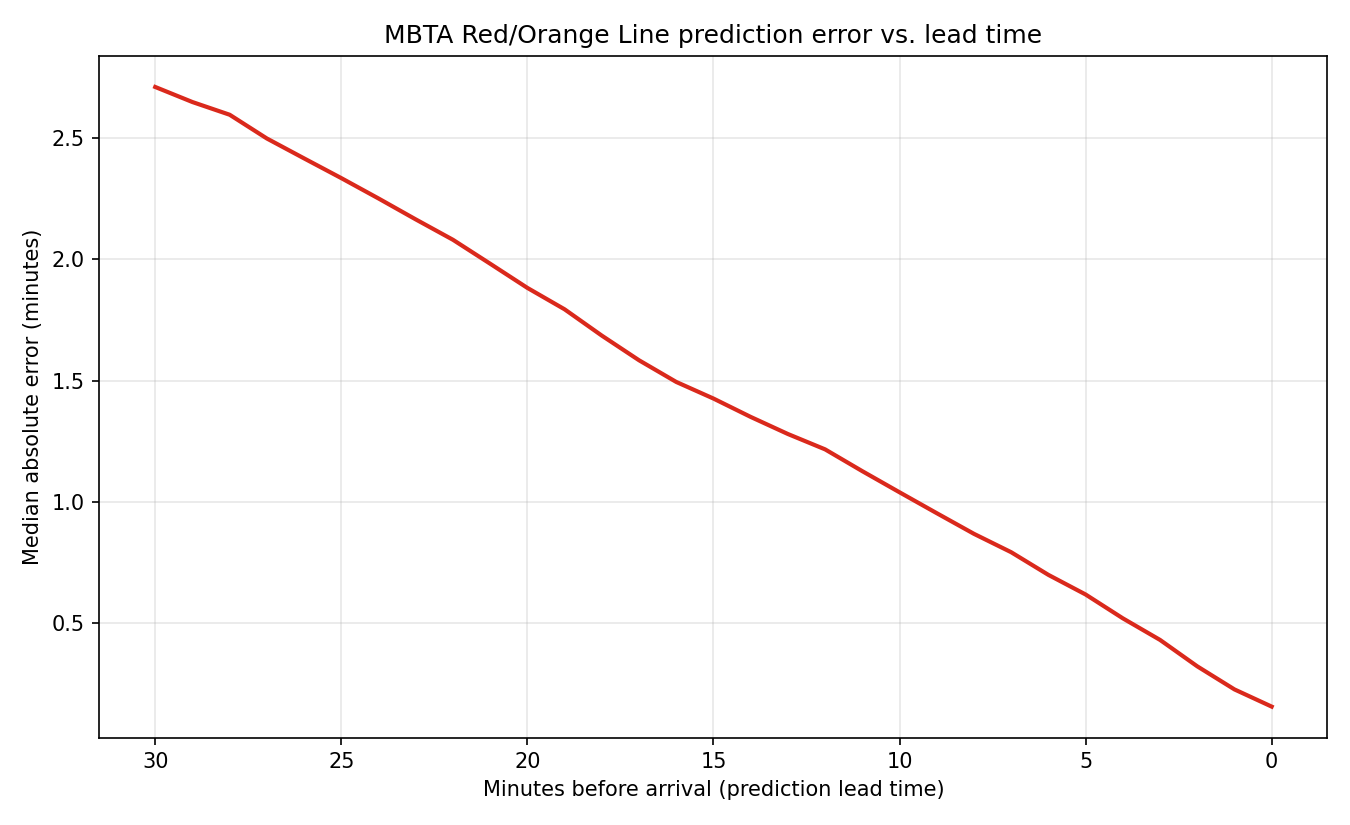
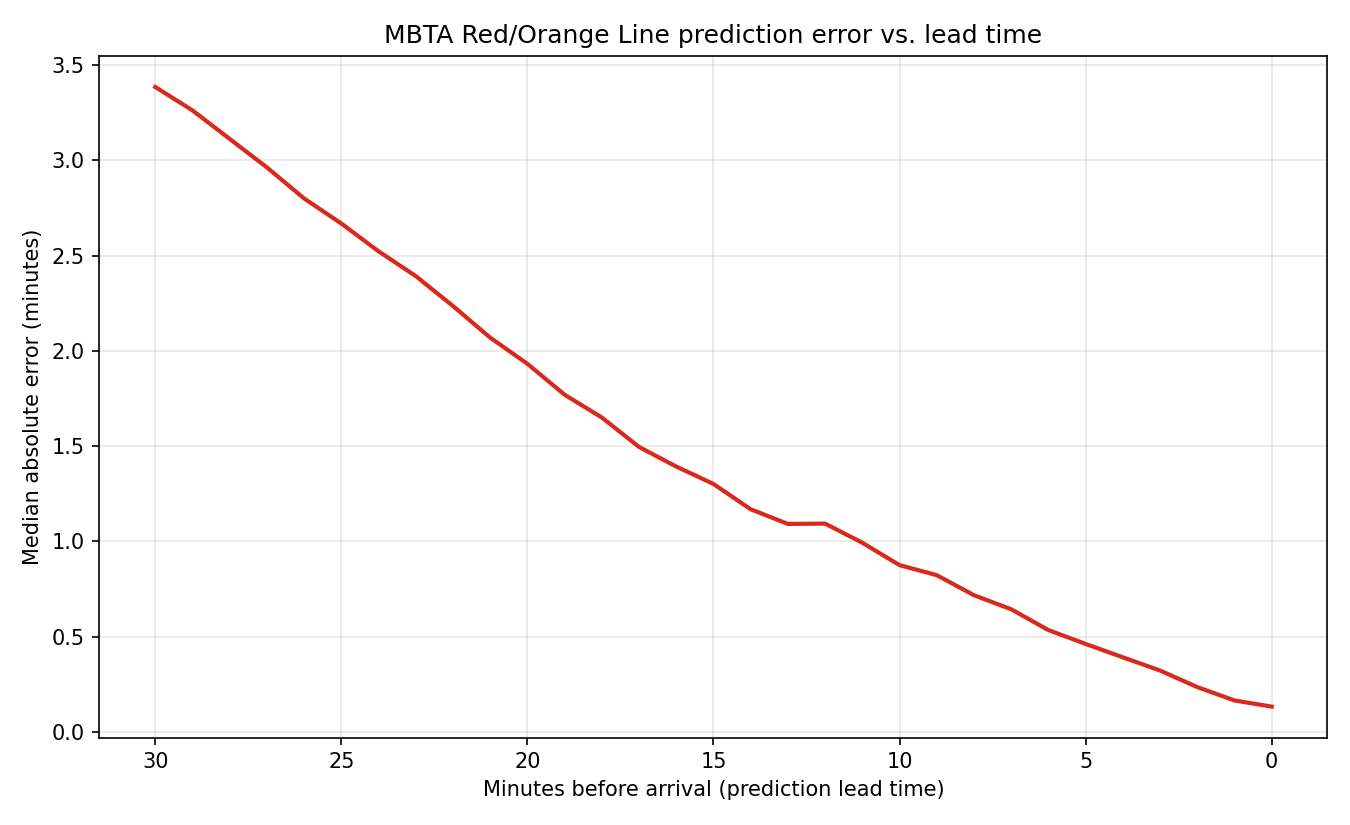
route and rush hour breakdowns, and fix route filtering

diff --git a/src/analysis/breakdowns.py b/src/analysis/breakdowns.py
@@ -1,0 +1,100 @@
+"""error breakdowns by route, and rush hour vs midday"""
+import matplotlib
+
+matplotlib.use("Agg")
+import matplotlib.pyplot as plt
+import pandas as pd
+
+from src import config, db
+
+LEAD_MIN_FOR_COMPARISON = 10
+TOLERANCE_MIN = 1.0
+
+
+def load_outcomes() -> pd.DataFrame:
+    """validated routes only"""
+    conn = db.connect()
+    placeholders = ",".join("?" * len(config.ROUTES))
+    df = pd.read_sql_query(
+        "SELECT route_id, lead_time_sec, error_sec, hour_local, is_rush_hour "
+        f"FROM prediction_outcomes WHERE route_id IN ({placeholders})",
+        conn,
+        params=config.ROUTES,
+    )
+    df["abs_error_sec"] = df["error_sec"].abs()
+    return df
+
+
+def _at_comparison_horizon(df: pd.DataFrame) -> pd.DataFrame:
+    lo = (LEAD_MIN_FOR_COMPARISON - TOLERANCE_MIN) * 60
+    hi = (LEAD_MIN_FOR_COMPARISON + TOLERANCE_MIN) * 60
+    return df[(df["lead_time_sec"] >= lo) & (df["lead_time_sec"] < hi)]
+
+
+def by_route(df: pd.DataFrame) -> pd.DataFrame:
+    sub = _at_comparison_horizon(df)
+    return (
+        sub.groupby("route_id")["abs_error_sec"]
+        .agg(median_abs_error_sec="median", n="count")
+        .reset_index()
+        .sort_values("median_abs_error_sec")
+    )
+
+
+def by_rush_hour(df: pd.DataFrame) -> pd.DataFrame:
+    sub = _at_comparison_horizon(df)
+    out = (
+        sub.groupby("is_rush_hour")["abs_error_sec"]
+        .agg(median_abs_error_sec="median", n="count")
+        .reset_index()
+    )
+    out["label"] = out["is_rush_hour"].map({0: "midday/off-peak", 1: "rush hour"})
+    return out[["label", "median_abs_error_sec", "n"]]
+
+
+def by_hour_of_day(df: pd.DataFrame) -> pd.DataFrame:
+    sub = _at_comparison_horizon(df)
+    return (
+        sub.groupby("hour_local")["abs_error_sec"]
+        .agg(median_abs_error_sec="median", n="count")
+        .reset_index()
+        .sort_values("hour_local")
+    )
+
+
+def plot_hourly(hourly: pd.DataFrame, out_path: str) -> None:
+    fig, ax = plt.subplots(figsize=(9, 5))
+    ax.bar(hourly["hour_local"], hourly["median_abs_error_sec"] / 60.0, color="#ED8B00")
+    for h in config.RUSH_HOURS:
+        ax.axvspan(h - 0.5, h + 0.5, color="gray", alpha=0.15)
+    ax.set_xlabel("Hour of day (America/New_York)")
+    ax.set_ylabel(f"Median absolute error at {LEAD_MIN_FOR_COMPARISON}min lead (minutes)")
+    ax.set_title("Prediction error by hour of day (shaded = rush hour)")
+    ax.set_xticks(range(0, 24, 2))
+    fig.tight_layout()
+    fig.savefig(out_path, dpi=150)
+    plt.close(fig)
+
+
+def main() -> None:
+    df = load_outcomes()
+    print(f"{len(df):,} matched prediction/outcome rows loaded")
+
+    print(f"\nBy route (at ~{LEAD_MIN_FOR_COMPARISON}min lead time):")
+    route_table = by_route(df)
+    print(route_table.to_string(index=False))
+
+    print(f"\nRush hour vs midday (at ~{LEAD_MIN_FOR_COMPARISON}min lead time):")
+    rush_table = by_rush_hour(df)
+    print(rush_table.to_string(index=False))
+
+    hourly = by_hour_of_day(df)
+    reports_dir = config.ROOT / "reports"
+    reports_dir.mkdir(exist_ok=True)
+    out_path = reports_dir / "error_by_hour.png"
+    plot_hourly(hourly, str(out_path))
+    print(f"\nSaved hourly breakdown chart -> {out_path}")
+
+
+if __name__ == "__main__":
+    main()

diff --git a/src/analysis/error_curves.py b/src/analysis/error_curves.py
@@ -5,7 +5,7 @@ matplotlib.use("Agg")
 import matplotlib.pyplot as plt
 import pandas as pd
 
-from src import db
+from src import config, db
 
 REPORTS_DIR_NAME = "reports"
 HEADLINE_TARGETS_MIN = [15, 10, 5, 2]
@@ -14,11 +14,14 @@ CURVE_MAX_MIN = 30
 
 
 def load_outcomes() -> pd.DataFrame:
+    """validated routes only"""
     conn = db.connect()
+    placeholders = ",".join("?" * len(config.ROUTES))
     df = pd.read_sql_query(
         "SELECT route_id, lead_time_sec, error_sec, hour_local, is_rush_hour "
-        "FROM prediction_outcomes",
+        f"FROM prediction_outcomes WHERE route_id IN ({placeholders})",
         conn,
+        params=config.ROUTES,
     )
     df["lead_min"] = df["lead_time_sec"] / 60.0
     df["abs_error_sec"] = df["error_sec"].abs()
